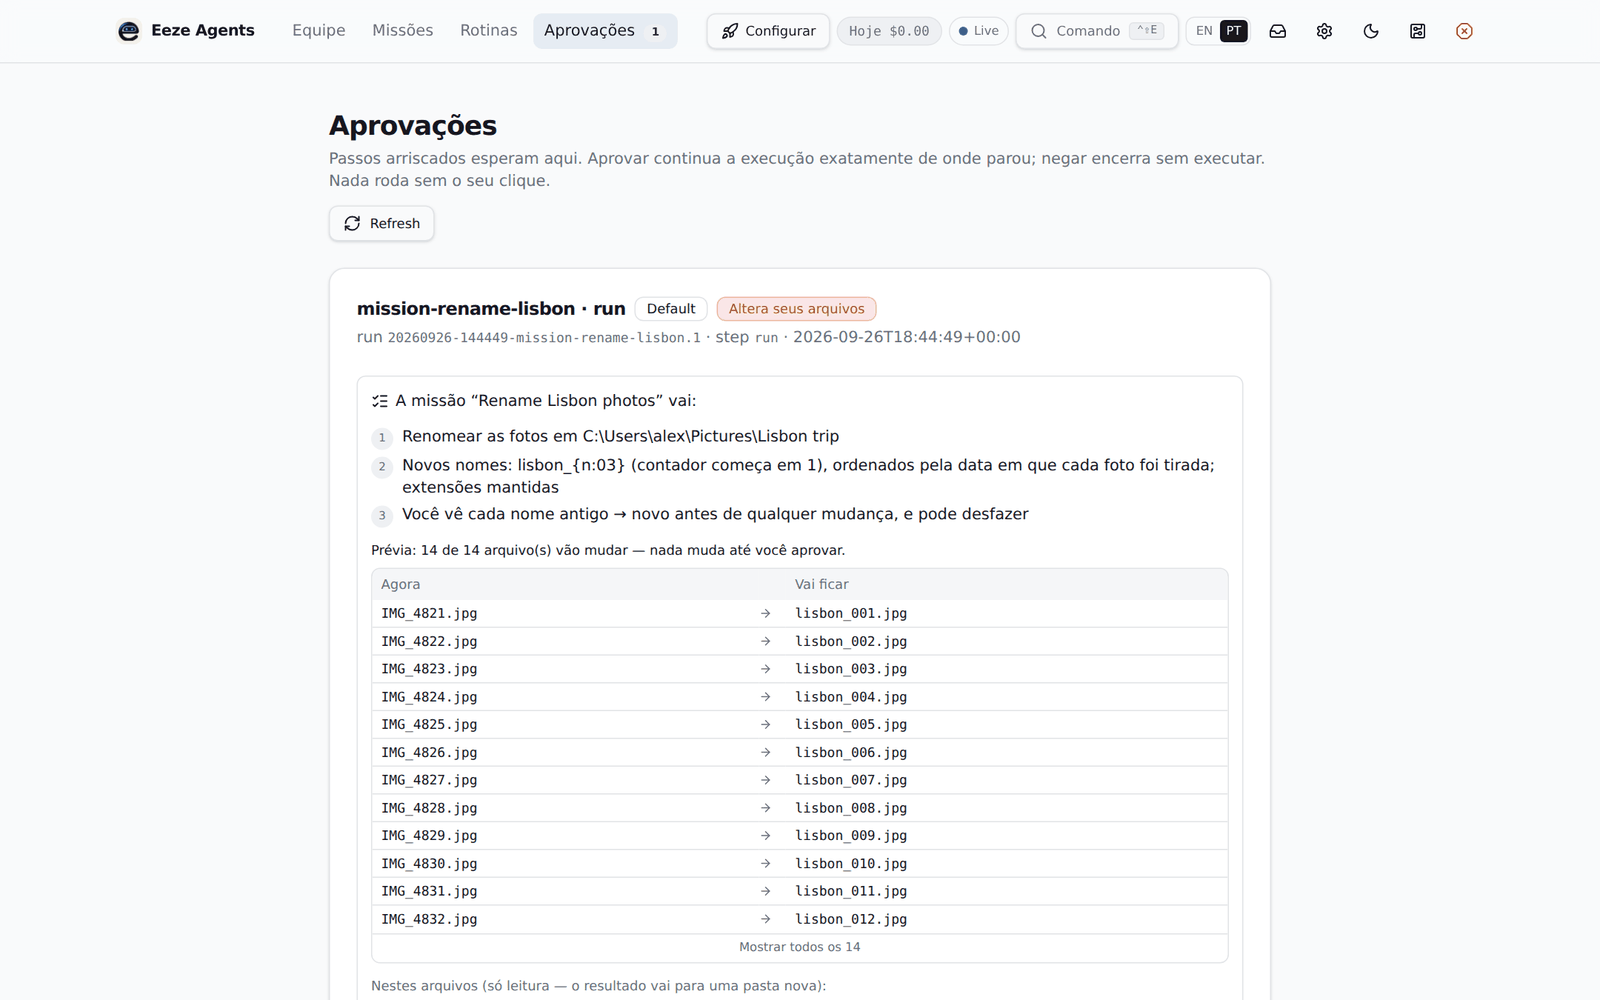
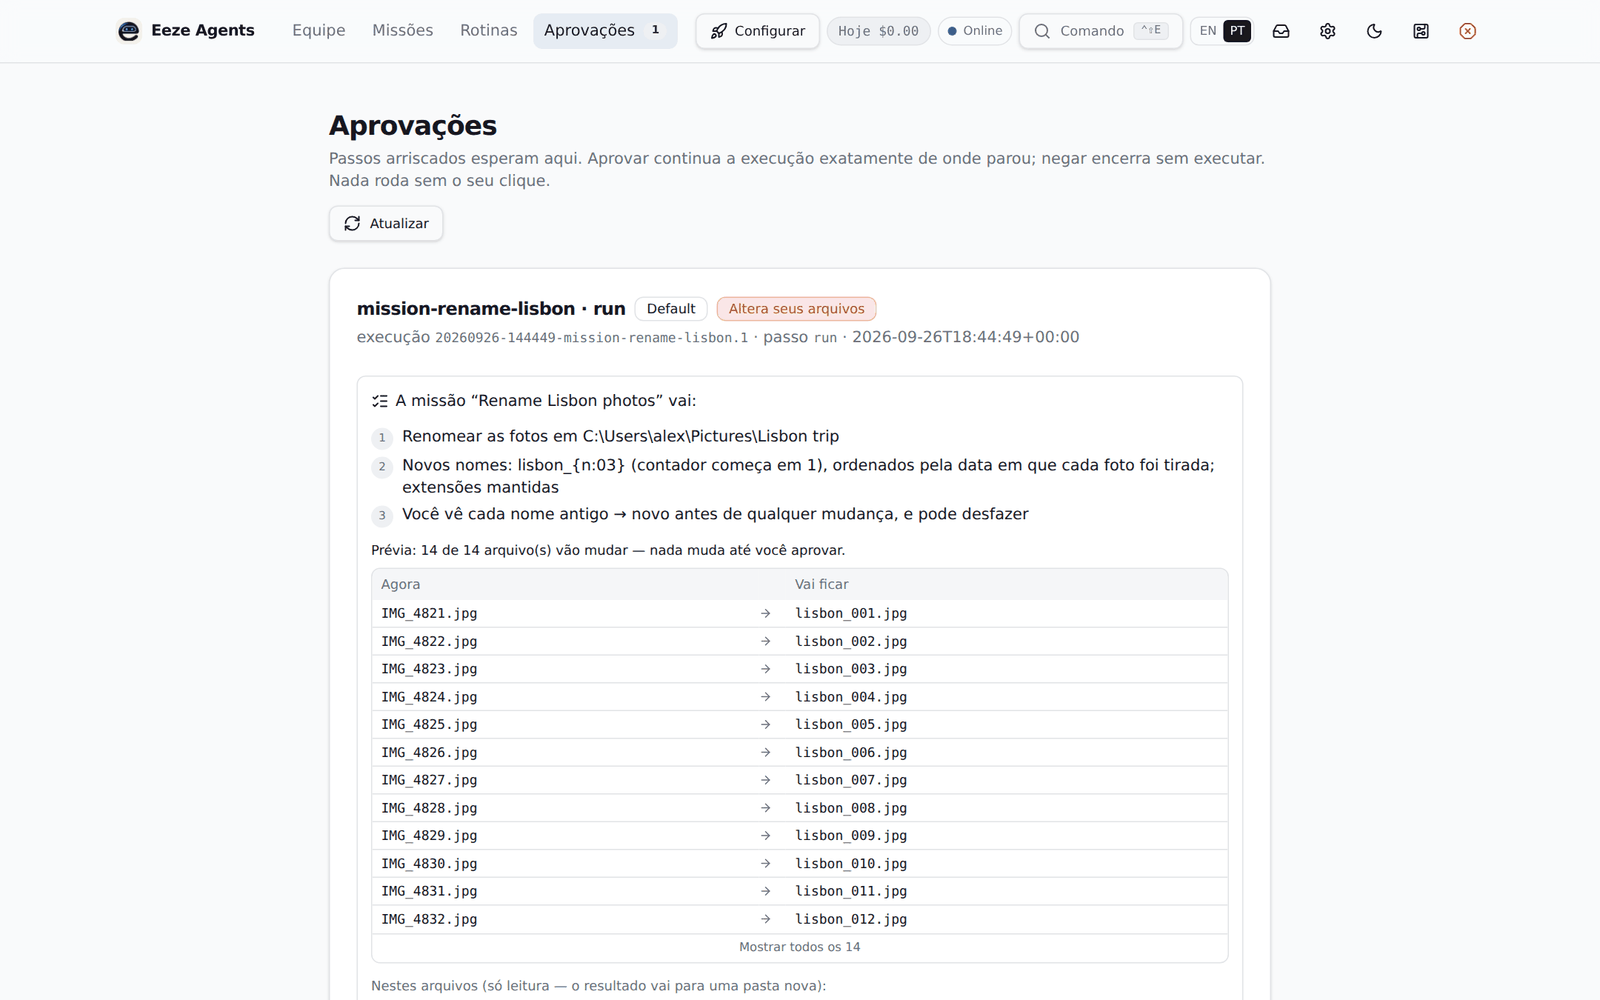
Translate provider notes and permission labels, header never wraps, refreshed screenshots

diff --git a/ui/src/components/app-header.tsx b/ui/src/components/app-header.tsx
@@ -71,7 +71,7 @@ export function AppHeader() {
     <header className="sticky top-0 z-40 border-b border-border bg-background/85 backdrop-blur">
       {!DEMO_MODE && <UpdateBanner />}
       <div className="mx-auto flex h-14 max-w-7xl items-center gap-4 px-6">
-        <Link to="/demo" className="flex items-center gap-2" aria-label={t("hdr.home")}>
+        <Link to="/demo" className="flex shrink-0 items-center gap-2" aria-label={t("hdr.home")}>
           <span className="grid size-6 shrink-0 place-items-center rounded-md bg-[#f4f1ea]">
             <img
               src="/eeze-mark.png"
@@ -82,7 +82,7 @@ export function AppHeader() {
               className="h-5 w-5"
             />
           </span>
-          <span className="text-sm font-semibold tracking-tight">Eeze Agents</span>
+          <span className="whitespace-nowrap text-sm font-semibold tracking-tight">Eeze Agents</span>
         </Link>
 
         <nav aria-label={t("hdr.mainNav")} className="ml-2 hidden items-center gap-1 sm:flex">
@@ -91,7 +91,7 @@ export function AppHeader() {
               key={item.to}
               to={item.to}
               activeOptions={{ exact: item.to === "/demo" }}
-              className="rounded-md px-2.5 py-1.5 text-sm text-muted-foreground transition-colors hover:bg-accent hover:text-foreground data-[status=active]:bg-accent data-[status=active]:text-foreground"
+              className="inline-flex items-center whitespace-nowrap rounded-md px-2.5 py-1.5 text-sm text-muted-foreground transition-colors hover:bg-accent hover:text-foreground data-[status=active]:bg-accent data-[status=active]:text-foreground"
             >
               {t(item.label)}
               {item.to.endsWith("approvals") && pendingCount > 0 && (
@@ -105,7 +105,7 @@ export function AppHeader() {
 
         <div className="ml-auto flex items-center gap-1.5">
           {needsSetup && (
-            <Button variant="outline" size="sm" asChild className="gap-1.5">
+            <Button variant="outline" size="sm" asChild className="gap-1.5 whitespace-nowrap">
               <Link to="/setup" title={t("hdr.finishSetup")}>
                 <Rocket className="size-3.5" />
                 {t("header.setup")}
@@ -115,7 +115,7 @@ export function AppHeader() {
           {!DEMO_MODE && spend && (
             <span
               title={`${t("header.spendTitle")}\n${spendTitle}`}
-              className={`hidden items-center gap-1 rounded-full border px-2.5 py-1 font-mono text-xs lg:inline-flex ${
+              className={`hidden items-center gap-1 whitespace-nowrap rounded-full border px-2.5 py-1 font-mono text-xs lg:inline-flex ${
                 overCap
                   ? "border-destructive/40 bg-destructive/10 text-destructive"
                   : nearCap
@@ -130,7 +130,7 @@ export function AppHeader() {
           {DEMO_MODE ? (
             <span
               title={t("hdr.demoTitle")}
-              className="mr-1 inline-flex items-center gap-1.5 rounded-full border border-border bg-muted px-2.5 py-1 text-xs text-muted-foreground"
+              className="mr-1 inline-flex items-center gap-1.5 whitespace-nowrap rounded-full border border-border bg-muted px-2.5 py-1 text-xs text-muted-foreground"
             >
               <span className="size-1.5 rounded-full bg-muted-foreground/50" />
               {t("hdr.demoBadge")}
@@ -142,7 +142,7 @@ export function AppHeader() {
             variant="outline"
             size="sm"
             onClick={() => setCommandOpen(true)}
-            className="hidden gap-2 text-muted-foreground md:flex"
+            className="hidden gap-2 whitespace-nowrap text-muted-foreground lg:flex"
           >
             <Search className="size-3.5" />
             <span>{t("header.command")}</span>

diff --git a/ui/src/lib/i18n.tsx b/ui/src/lib/i18n.tsx
@@ -844,6 +844,20 @@ const en = {
   "wiz.tpl.scribeRole": "Documents & Forms",
   "wiz.updated": "{name} updated.",
   "wiz.userFileNote": "Saved to your user file (~/.eeze/agents.yaml).",
+  "prov.srv.measured": "measured here 2026-09-23 (Luna routine / Sol hard)",
+  "prov.srv.noModel": "no model default shipped — set a model before probing",
+  "prov.srv.startServer": "no key needed — start the server and run Test connection",
+  "prov.srv.native": "native Messages API — the llm brain speaks chat-completions; not wired yet",
+  "prov.srv.codexSession": "the local Codex CLI session (~/.codex/auth.json); no API key; local-only",
+  "prov.srv.keyStored": "key stored locally",
+  "prov.srv.keyEnv": "key from the environment (.env)",
+  "prov.srv.noKey": "no key yet — add one to use this provider",
+  "prov.srv.cliMissing": "cli missing or no login — run `codex login`",
+  "prov.srv.noKeyTest": "no key needed — run Test connection",
+  "prov.srv.cliFound": "cli found · session present ({home})",
+  "ag.allApps": "All applications",
+  "ag.allTools": "All tools",
+  "ag.foreground": "Foreground control",
 } as const;
 
 export type MessageKey = keyof typeof en;
@@ -1674,6 +1688,20 @@ const pt: Partial<Record<MessageKey, string>> = {
   "wiz.tpl.scribeRole": "Documentos e Formulários",
   "wiz.updated": "{name} atualizado.",
   "wiz.userFileNote": "Salvo no seu arquivo de usuário (~/.eeze/agents.yaml).",
+  "prov.srv.measured": "medido aqui em 2026-09-23 (Luna rotina / Sol difícil)",
+  "prov.srv.noModel": "sem modelo padrão — escolha um modelo antes de testar",
+  "prov.srv.startServer": "não precisa de chave — ligue o servidor e clique em Testar conexão",
+  "prov.srv.native": "API Messages nativa — o cérebro llm usa chat-completions; ainda não conectado",
+  "prov.srv.codexSession": "a sessão local do Codex CLI (~/.codex/auth.json); sem chave de API; só neste computador",
+  "prov.srv.keyStored": "chave guardada neste computador",
+  "prov.srv.keyEnv": "chave vinda do ambiente (.env)",
+  "prov.srv.noKey": "ainda sem chave — adicione uma para usar este provedor",
+  "prov.srv.cliMissing": "CLI ausente ou sem login — rode `codex login`",
+  "prov.srv.noKeyTest": "não precisa de chave — clique em Testar conexão",
+  "prov.srv.cliFound": "CLI encontrado · sessão presente ({home})",
+  "ag.allApps": "Todos os aplicativos",
+  "ag.allTools": "Todas as ferramentas",
+  "ag.foreground": "Controle em primeiro plano",
 };
 
 const DICTS: Record<Lang, Partial<Record<MessageKey, string>>> = { en, pt };

diff --git a/ui/src/components/providers-card.tsx b/ui/src/components/providers-card.tsx
@@ -39,9 +39,32 @@ function statusOf(
   return { text: t("prov.notSet"), variant: "outline" };
 }
 
+/** Notes/details come from the local service in English; show the known ones translated. */
+const SERVER_TEXT: Record<string, MessageKey> = {
+  "measured here 2026-09-23 (Luna routine / Sol hard)": "prov.srv.measured",
+  "no model default shipped — set a model before probing": "prov.srv.noModel",
+  "no key needed — start the server and run Test connection": "prov.srv.startServer",
+  "native Messages API — the llm brain speaks chat-completions; not wired yet": "prov.srv.native",
+  "the local Codex CLI session (~/.codex/auth.json); no API key; local-only": "prov.srv.codexSession",
+  "key stored locally": "prov.srv.keyStored",
+  "key from the environment (.env)": "prov.srv.keyEnv",
+  "no key yet — add one to use this provider": "prov.srv.noKey",
+  "cli missing or no login — run `codex login`": "prov.srv.cliMissing",
+  "no key needed — run Test connection": "prov.srv.noKeyTest",
+};
+
+function serverText(text: string, t: Translate): string {
+  const key = SERVER_TEXT[text];
+  if (key) return t(key);
+  const found = /^cli found · session present \((.*)\)$/.exec(text);
+  return found ? t("prov.srv.cliFound", { home: found[1] ?? "" }) : text;
+}
+
 function whereFrom(provider: ApiProvider, t: Translate): string {
   if (provider.kind === "oauth_external")
-    return provider.configured_detail || t("prov.localSession");
+    return provider.configured_detail
+      ? serverText(provider.configured_detail, t)
+      : t("prov.localSession");
   if (provider.key_source === "store")
     return `${t("prov.stored")}${provider.key_last4 ? ` ···${provider.key_last4}` : ""}`;
   if (provider.key_source === "env") return t("prov.fromEnv");
@@ -208,7 +231,9 @@ export function ProvidersCard() {
                     {models ? ` — ${models}` : ""}
                   </p>
                   {provider.note && (
-                    <p className="mt-1 text-xs text-muted-foreground">{provider.note}</p>
+                    <p className="mt-1 text-xs text-muted-foreground">
+                      {serverText(provider.note, t)}
+                    </p>
                   )}
                 </div>
 

diff --git a/ui/src/routes/demo.agents.$agentId.tsx b/ui/src/routes/demo.agents.$agentId.tsx
@@ -47,7 +47,7 @@ import { agentQuery, routinesQuery, runsQuery } from "@/lib/queries";
 import { DEMO_MODE } from "@/lib/api";
 import { CreateAgentWizard } from "@/components/create-agent-wizard";
 import { getAgent } from "@/lib/mock-data";
-import { useT, type MessageKey } from "@/lib/i18n";
+import { useT, type MessageKey, type Translate } from "@/lib/i18n";
 
 const tabKey: Record<string, MessageKey> = {
   overview: "ag.tab.overview",
@@ -56,6 +56,16 @@ const tabKey: Record<string, MessageKey> = {
   history: "ag.tab.history",
   settings: "ag.tab.settings",
 };
+
+/** Labels built in lib/api.ts (outside React) in English; translate the known ones here. */
+function permissionLabel(id: string, label: string, t: Translate): string {
+  if (id === "apps" && label === "All applications") return t("ag.allApps");
+  if (id === "allow_foreground") return t("ag.foreground");
+  const risk = `risk.${id}`;
+  if (["read", "write_local", "external_send", "install_exec", "destructive", "system"].includes(id))
+    return t(risk as MessageKey);
+  return label;
+}
 
 export const Route = createFileRoute("/demo/agents/$agentId")({
   loader: ({ params }) => {
@@ -319,7 +329,7 @@ function AgentDetail() {
                     ) : (
                       <ShieldCheck className="size-4 text-primary" />
                     )}
-                    <span>{permission.label}</span>
+                    <span>{permissionLabel(permission.id, permission.label, t)}</span>
                   </Label>
                 ))}
               </CardContent>
@@ -331,7 +341,7 @@ function AgentDetail() {
               <CardContent className="flex flex-wrap gap-2">
                 {agent.tools.map((tool) => (
                   <Badge key={tool} variant="secondary" className="font-normal">
-                    {tool}
+                    {tool === "All tools" ? t("ag.allTools") : tool}
                   </Badge>
                 ))}
               </CardContent>

diff --git a/ui/src/components/connection-status.tsx b/ui/src/components/connection-status.tsx
@@ -21,7 +21,7 @@ export function ConnectionStatus() {
           <span
             role="status"
             aria-label={`${label} (${API_URL})`}
-            className="flex items-center gap-1.5 rounded-full border border-border px-2 py-1"
+            className="flex items-center gap-1.5 whitespace-nowrap rounded-full border border-border px-2 py-1"
           >
             <span
               className={`size-2 rounded-full ${isPending ? "bg-muted-foreground" : online ? "bg-success" : "bg-destructive"}`}
